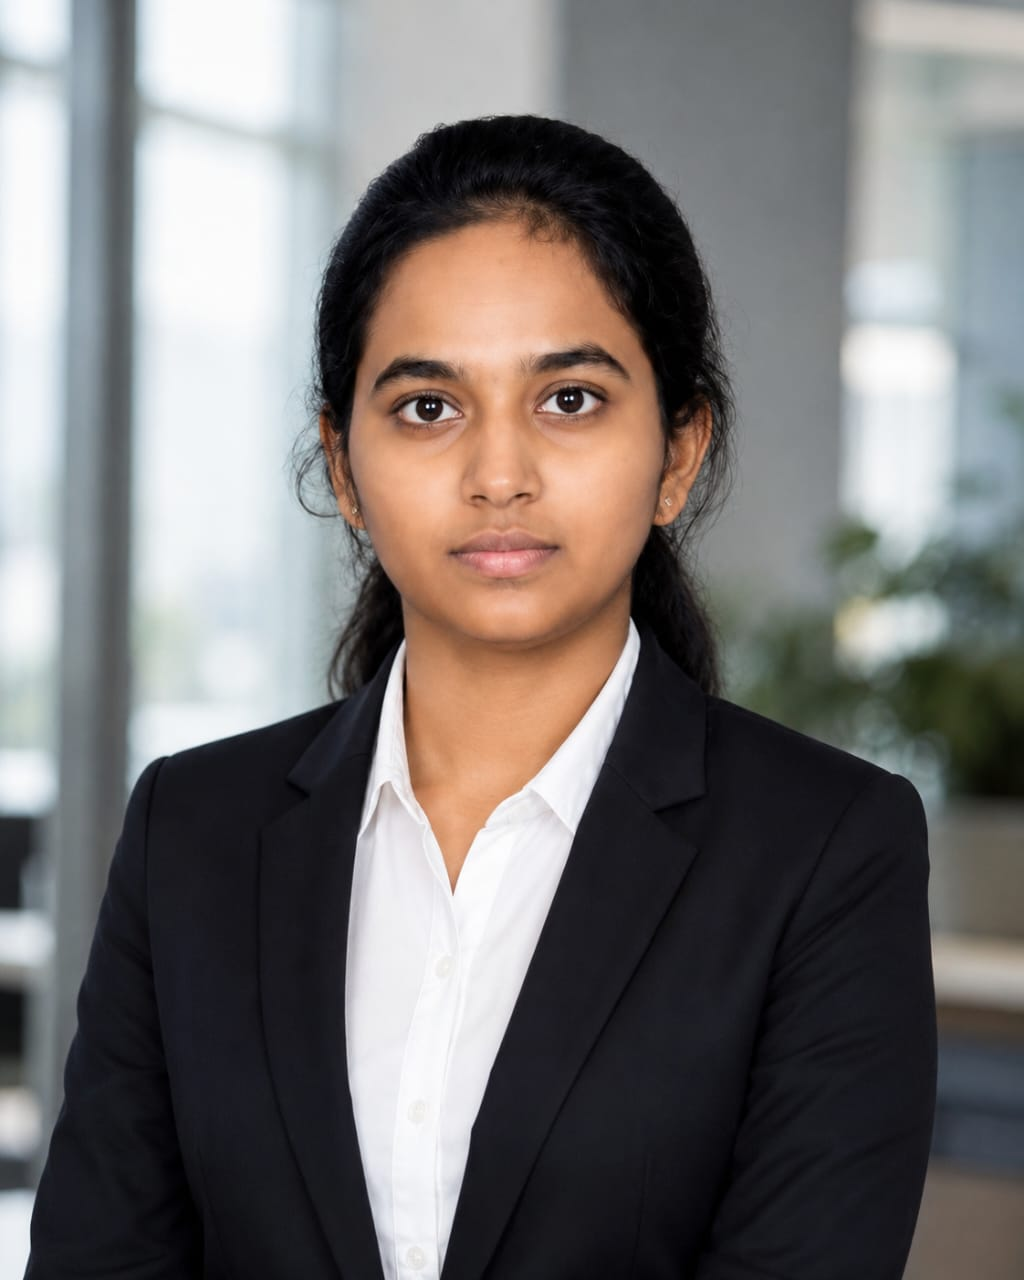
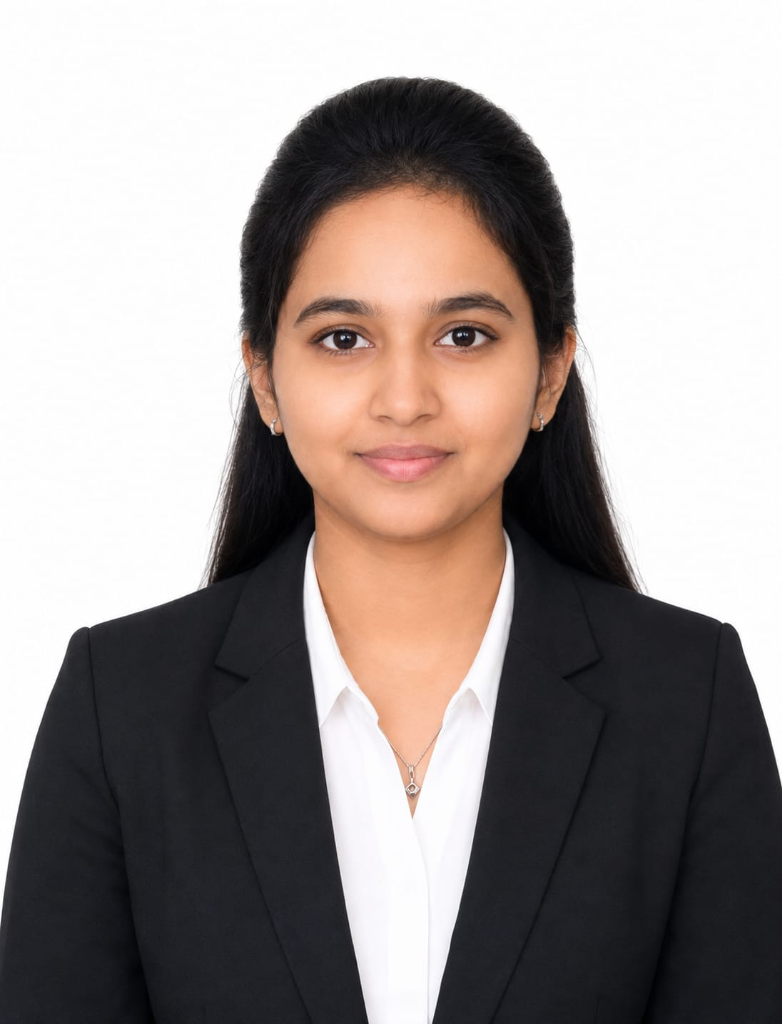
Deploy to GitHub Pages

diff --git a/Portfolio/backend/server.js b/Portfolio/backend/server.js
@@ -8,8 +8,6 @@ const connectDB = require('./src/config/db');
 // Load env vars
 dotenv.config();
 
-// Connect to database
-connectDB();
 
 const app = express();
 
@@ -28,16 +26,52 @@ app.use('/api/skills', require('./src/routes/skillRoutes'));
 app.use('/api/experience', require('./src/routes/experienceRoutes'));
 app.use('/api/education', require('./src/routes/educationRoutes'));
 app.use('/api/messages', require('./src/routes/messageRoutes'));
+// Root health check
+app.get('/', (req, res) => {
   res.send('API is running...');
 });
+
+const User = require('./src/models/User');
+const bcrypt = require('bcryptjs');
+
+// Create a default admin user on startup if it doesn't exist.
+const createAdminUser = async () => {
+  try {
+    const adminEmail = process.env.ADMIN_EMAIL || 'jishajayaprakash336@gmail.com';
+    const adminPassword = process.env.ADMIN_PASSWORD || 'jisha2005@';
+
+    const existing = await User.findOne({ email: adminEmail });
+    if (!existing) {
+      const salt = await bcrypt.genSalt(10);
+      const hashed = await bcrypt.hash(adminPassword, salt);
+      await User.create({ name: 'Admin', email: adminEmail, password: hashed });
+      console.log(`Default admin user created: ${adminEmail}`);
+    } else {
+      console.log(`Admin user already exists: ${adminEmail}`);
+    }
+  } catch (err) {
+    console.error('Admin creation error:', err);
+  }
+};
 
 // Error handling middleware
 const { notFound, errorHandler } = require('./src/middlewares/errorMiddleware');
 app.use(notFound);
 app.use(errorHandler);
 
-const PORT = process.env.PORT || 5000;
+const startServer = async () => {
+  try {
+    await connectDB();
+    await createAdminUser();
 
-app.listen(PORT, () => {
-  console.log(`Server running in ${process.env.NODE_ENV} mode on port ${PORT}`);
-});
+    const PORT = process.env.PORT || 5000;
+    app.listen(PORT, () => {
+      console.log(`Server running in ${process.env.NODE_ENV} mode on port ${PORT}`);
+    });
+  } catch (err) {
+    console.error('Failed to start server:', err);
+    process.exit(1);
+  }
+};
+
+startServer();

diff --git a/Portfolio/frontend/src/components/Contact.jsx b/Portfolio/frontend/src/components/Contact.jsx
@@ -19,11 +19,30 @@ const Contact = () => {
   const handleSubmit = async (e) => {
     e.preventDefault();
     setStatus('Sending...');
+    
     try {
-      await api.post('/messages', formData);
-      setStatus('Message sent successfully!');
-      setFormData({ name: '', email: '', subject: '', message: '' });
-      setTimeout(() => setStatus(''), 3000);
+      const response = await fetch("https://formsubmit.co/ajax/jishajayaprakash336@gmail.com", {
+        method: "POST",
+        headers: { 
+            'Content-Type': 'application/json',
+            'Accept': 'application/json'
+        },
+        body: JSON.stringify({
+            Name: formData.name,
+            Email: formData.email,
+            Subject: formData.subject,
+            Message: formData.message
+        })
+      });
+
+      if (response.ok) {
+        setStatus('Message sent successfully!');
+        setFormData({ name: '', email: '', subject: '', message: '' });
+        setTimeout(() => setStatus(''), 3000);
+      } else {
+        setStatus('Failed to send message. Please try again.');
+        setTimeout(() => setStatus(''), 3000);
+      }
     } catch (error) {
       console.error(error);
       setStatus('Failed to send message. Please try again.');
